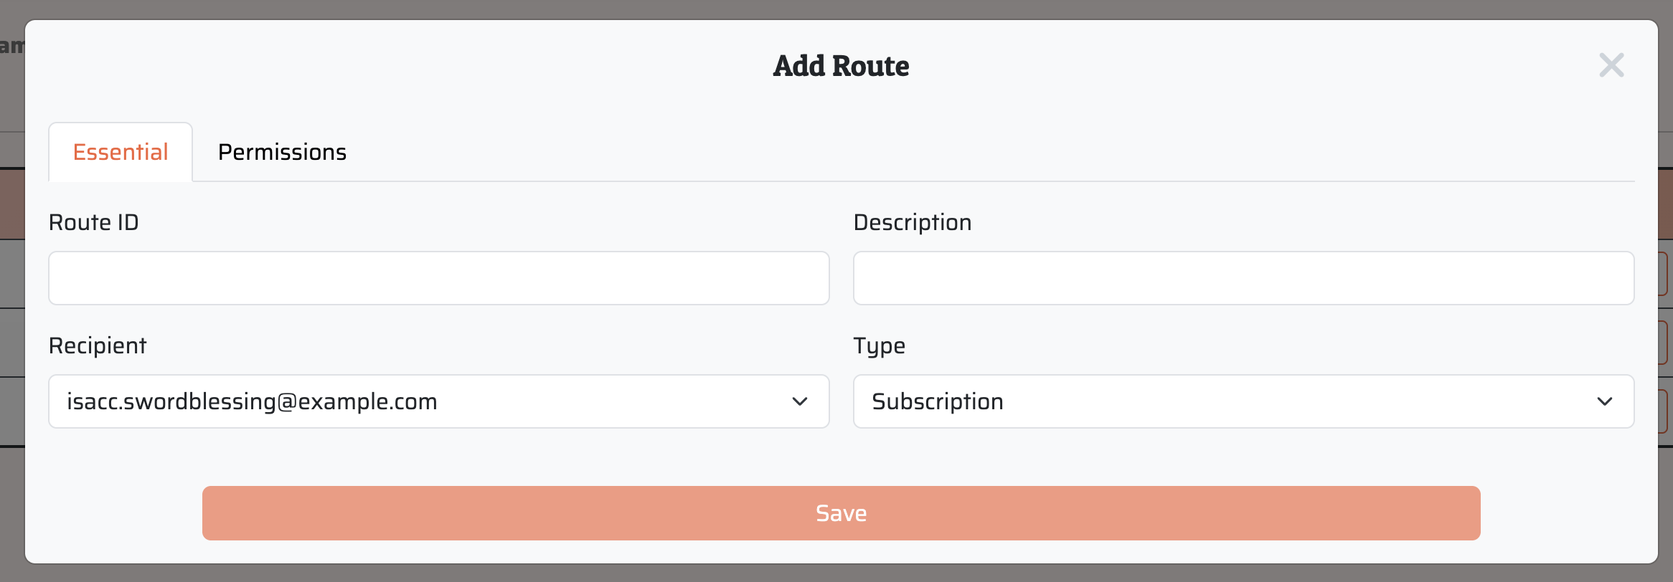
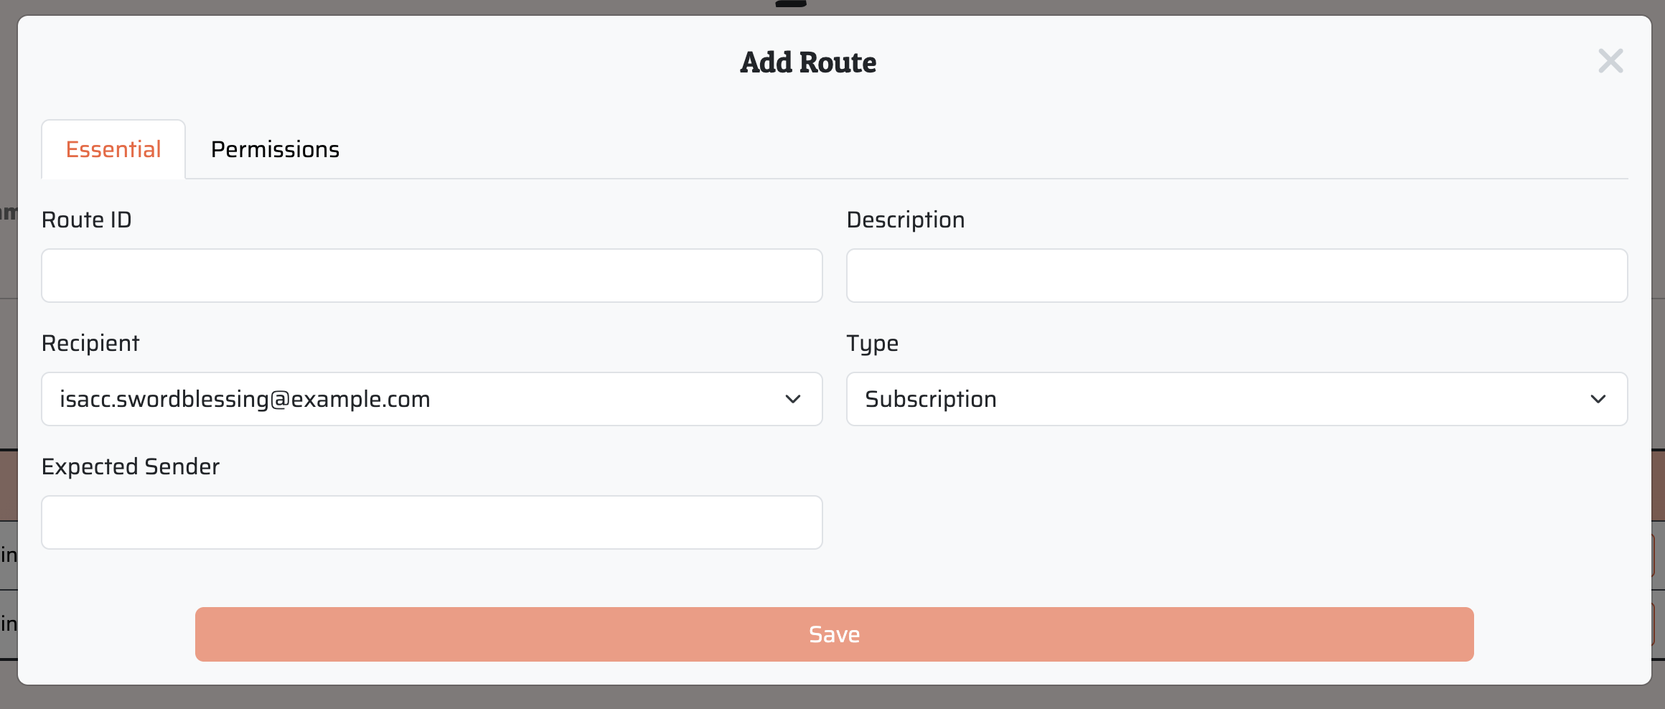
Update docs for routes, encryption and welcome page
- Manage Routes: add Expected Sender, describe grouped permissions,
  update route listener constraints and add a Delete Routes section
- Encryption: state that only the public key is stored, redraw the
  encryption flow diagram, and correct where decryption happens
- Welcome: rewrite in plain language with Duotail's differentiators
- Refresh channel, contact and route screenshots

diff --git a/docs/tutorials/manage-route.md b/docs/tutorials/manage-route.md
@@ -45,28 +45,62 @@ The **Essential** tab contains the primary fields required to create a route:
 - **Description:** A brief note explaining the purpose of the route.
 - **Recipient:** A dropdown menu to select the destination email address where messages received via this route will be delivered.
 - **Type:** A dropdown menu to select the route logic—either `Subscription` or `One Shot`.
+- **Expected Sender (Optional):** A friendly name (up to 20 characters) for the sender you expect to hear from first, such as `Netflix`. This field appears only for **Subscription** routes. When the first email arrives on a route with no permissions, the system automatically creates domain permissions for that sender and uses this value as their name. If you leave it empty, the sender's root domain (e.g., `example.com`) is used as the name instead. The field is disabled once the route has any permissions; in that case, set the Expected Sender through a [Route Listener](#adding-a-route-listener).
 
 ### Route Permissions
 ![Add Route Permissions](/img/tutorials/manage-route/add-route-permissions.png)
-The **Permissions** tab allows you to configure specific access rules for the route. You can manage two types of permissions: `Domain Permissions` and `Email Permissions`.
+The **Permissions** tab lets you set access rules for the route. Each rule is either a `Domain` permission (e.g., `example.com`) or an `Email` permission (a full email address). Rules are shown in **permission groups**, one group per sender name, so you can manage all the domains and addresses of one sender together.
+
+:::info Changes Apply on Save
+Changes you make on the Permissions tab, including adding, toggling, editing, renaming and deleting, take effect only after you click **Save**. If you close the window without saving, they are discarded.
+:::
 
 #### Add a Permission
-To add a new rule, enter the following details and click the **`+`** button:
-- **Name (Optional):** A label to help you identify the permission.
+To add a new rule, fill in the fields at the bottom of the tab and click the **`+`** button:
+- **Name (Optional):** The sender name the permission belongs to (up to 20 characters). It decides which group the permission joins. If left empty, the value itself is used as the group name.
 - **Value:** The specific domain (e.g., example.com) or the full email address you wish to manage.
 - **Type:** A dropdown menu to specify whether the value is a `Domain` or an `Email`.
 
-#### Manage Permissions 
-A permission is successfully added once it appears as a "pill" on the tab. You can control the behavior of each permission by toggling its status:  
-- **Allowed (Green Pill):** Emails from the specified domain or address are permitted to pass through the route.  
-- **Rejected (Gray Pill):** Emails from the specified domain or address will be automatically blocked. 
+A newly added permission is always **Enabled**.
 
-You can switch between `Allowed` and `Rejected` status simply by clicking on the permission pill.
+#### Permission Groups
+Permissions are grouped by their **name**. Every domain and email that shares exactly the same name appears in one group. Group names are **case sensitive**: `Local News` and `local news` are two separate groups.
 
-To understand how our system determines whether an email is permitted when multiple overlapping permissions exist, please refer to our [Route Guide](/concepts/route) for a detailed explanation of the decision hierarchy
+Each group is shown in one of two ways:
+- **Collapsed:** A colored pill showing the group name and the number of permissions it contains. Click the pill to expand it.
+- **Expanded:** A card with the group name in the header and one row per domain or email. Click the group name in the header to collapse it again.
 
-#### Remove a Permission
-To permanently delete a permission from the route, click the **`x`** icon located at the right end of the permission pill.
+The color of a collapsed pill, and of the toggle in an expanded group's header, shows the overall status of the group:
+- **Green:** All permissions in the group are enabled.
+- **Amber:** Some permissions are enabled and some are disabled.
+- **Gray:** All permissions in the group are disabled.
+
+#### Manage Permissions
+Each permission has one of two statuses:
+- **Enabled (Green Toggle):** Emails from the specified domain or address are allowed through the route.
+- **Disabled (Gray Toggle):** Emails from the specified domain or address are blocked.
+
+In an expanded group, you can manage the **whole group** with the buttons in its header:
+- **Toggle:** Enables every permission in the group. If all of them are already enabled, it disables them all instead.
+- **Edit (pencil):** Renames the group. All permissions in the group take the new name.
+- **Delete (trash can):** Removes every permission in the group.
+
+You can also manage **individual permissions** with the buttons on each row:
+- **Toggle:** Switches that permission between `Enabled` and `Disabled`.
+- **Edit (pencil):** Changes the domain or email value. The new value must be a valid domain or email address of the same type.
+- **Delete (`x`):** Removes that permission from the route.
+
+To understand how our system decides whether an email is permitted when several permissions overlap, see our [Route Guide](/concepts/route) for a detailed explanation of the decision hierarchy.
+
+#### Group or Regroup Permissions
+Because groups are formed by name, you organize permissions by changing their names:
+- **Merge groups:** Rename a group to the exact name of another group (including letter case). All its permissions move into that group.
+- **Move a single permission:** Add the same value and type again using the fields at the bottom of the tab, with the name of the target group. The existing permission is replaced, so it moves into that group. It is also set back to **Enabled**.
+- **Split a group:** Move individual permissions out to a new name as described above.
+
+:::tip Name Your Senders
+Auto-created permissions are named after the [Expected Sender](#route-essentails) if you set one; otherwise they use the sender's root domain. Rename those groups to a friendly name, such as `Safari News`, to keep all of a sender's domains and addresses together.
+:::
 
 :::tip Empty Permission Subscription
 We recommend leaving permissions undefined when creating a new **Subscription** route. If no explicit permissions are set, the system will automatically permit the first incoming email it receives. This is particularly useful for handling automated confirmation or verification emails generated by third-party services.
@@ -86,6 +120,25 @@ Every email address in the `One Shot` stamped list is displayed as a **red pill*
 ![One Shot Stamped List](/img/tutorials/manage-route/stamped-list.png)
 The Blocked tab displays up to **30 email address pills** at a time. If you cannot find a specific address, use the search bar at the top to filter the list by typing any part of the email address.
 ![One Shot Stamped List Search](/img/tutorials/manage-route/stamped-search.png)
+
+## Delete Routes
+You can delete a route by clicking the `Delete` button located in the `Actions` column of the `Route Table`. A `Delete Route` confirmation window will appear, showing the full email address of the route.
+![Delete Route](/img/tutorials/manage-route/delete-route.png)
+Click `Delete` to confirm, or `Cancel` to keep the route. Once a route is deleted:
+- **New emails** sent to the route's address will no longer be delivered.
+- **Replies** to past emails received through this route will no longer reach the original sender. These replies are dropped silently: you will not receive a bounce or any other notice that your reply was not delivered.
+- **Email history** for the route is kept and remains viewable.
+- **Route Listener:** If the channel's active [Route Listener](#-route-listener) is set on this route, it is turned off automatically. A listener on a different route is not affected.
+
+### Reusing a Deleted Route ID
+Once a route is deleted, its Route ID becomes available again, and you can create a new route with the same ID in the same channel. Because the Route ID is part of the route's email address, keep the following in mind:
+- The new route starts fresh. None of the old route's settings, such as its description, recipient or permissions, are restored.
+- The new route uses the **same email address** as the deleted one, so senders who still have that address can reach you again, subject to the new route's permissions.
+- Replies and action links in emails forwarded by the old route will apply to the new route.
+
+:::warning
+Deleting a route takes effect immediately. If you only want to stop emails temporarily, consider changing the route's status to `Disabled` from the [Update Routes](#update-routes) window instead.
+:::
 
 ## 👂 Route Listener 
 A Route Listener is a temporary, high-intelligence state you can apply to your channel. It is designed to simplify the process of aggregating multiple subscriptions or new senders into a single route without manual whitelisting.
@@ -110,16 +163,17 @@ A Route Listener remains active until one of the following occurs:
 3. **Manual Cancellation:** The user stops the listener via the dashboard.
 
 #### Key Constraints
-- **Subscription Only:** Listeners can only be added to existing, Enabled routes of the "Subscription" type.
+- **Subscription Routes with Permissions Only:** Listeners can only be added to existing, Enabled routes of the "Subscription" type that already have at least one permission. A subscription route with no permissions doesn't need a listener: it automatically permits the first incoming email, using the route's own [Expected Sender](#route-essentails) to name the new permissions.
 - **Single Instance:** To prevent gateway conflicts, each channel can only have one active Route Listener at a time. Activating a new listener will automatically cancel any previous one on that channel.
-- **Visibility:** The **"Add Route Listener"** button only appears if your channel has at least one enabled subscription route.
+- **Visibility:** The **"Add Route Listener"** button only appears if your channel has at least one enabled subscription route with at least one permission.
 
 ### 🛠 Instructions
 #### Adding a Route Listener
 1. Click the **"Add Route Listener"** button above your route table.
-2. Configure the listener through the **"Add Route Listener"** form which contains the following two options and Save
+2. Configure the listener through the **"Add Route Listener"** form which contains the following options and Save
     * **Route ID:** Select the specific route you wish to open for auto-permissioning.
     * **Active Duration:** Select a lifespan from the dropdown: `30 minutes`, `1 hour`, or `8 hours`.
+    * **Expected Sender (Optional):** A friendly name (up to 20 characters) for the sender you expect to hear from, such as `Netflix`. When the next email arrives, the domain permissions created for its sender use this value as their name, so they appear under that name in the route's [permission groups](#permission-groups). If you leave it empty, the sender's root domain (e.g., `example.com`) is used as the name instead. To add the new sender to an existing group, enter that group's name exactly as it appears; names are case sensitive.
 
 :::tip Security Recommendation
 Always choose the **shortest** timeframe in which you expect the next email to arrive. This minimizes the "open window" for your route.

diff --git a/docs/welcome.md b/docs/welcome.md
@@ -3,40 +3,60 @@ sidebar_position: 1
 sidebar_label: Welcome
 ---
 
-# Welcome to our Duotail Documentation 
+# Welcome to Duotail
 
-**Master the world’s first Segmented Email Gateway in less than 5 minutes.**
+**Keep your real email address private, and decide who gets to reach you.**
 
-## Purpose
+Every time you sign up for a website, a newsletter or an online store, you hand over your email address. Over time, that address ends up on mailing lists you never agreed to, and junk mail piles up.
 
-**Our mission is simple: to provide every user with total control over their inbox and how they receive email.**
+Duotail gives you extra email addresses to hand out instead of your real one. Only the senders you allow get through to your inbox. Everyone else is stopped before they reach you. On a paid plan, those emails are kept on our website instead, so you can review them later.
 
-We're convinced that every person deserves a curated inbox. To make that a reality, we provide our full suite of incoming email controls to all our customers, free of charge.
+## How It Works
 
-## Key Concepts
+1. **Get your own Duotail inbox.** When you sign up, you get an inbox with an address such as `a_happy.rhino@duotail.com`.
+2. **Create an address for each purpose.** Make one for shopping (`a_happy.rhino_shopping@duotail.com`), one for newsletters (`a_happy.rhino_news@duotail.com`), and so on. Give these out instead of your real address.
+3. **Keep reading email where you already do.** Emails you allow are forwarded to your own email address, such as your Gmail or Outlook, so you don't need to check a new mailbox every day. If you want to look back, the [History](/tutorials/manage-history) page on our website lists your emails from the past 30 days, and you can open or download the ones we have kept for you.
 
-To get the most out of our services, it is important to understand these three core concepts:
-- **Channel**: A channel acts as an "umbrella" for all email addresses starting with its name. For example, owning the channel `a_happy.rhino` gives you control over `a_happy.rhino@duotail.com`, `a_happy.rhino_sports@duotail.com`, and `a_happy.rhino_food@duotail.com`. More details can be found in the [channel guide](/concepts/channel).
+## What Makes Duotail Different
 
-- **Route**: A Route defines the rules for incoming emails. The text following the last underscore in an address is the Route ID. For example, in `a_happy.rhino_food@duotail.com`, `food` is the route. If a route rule allows `deliciousgrass.com`, any emails from that domain will be delivered to your inbox. More details can be found in the [route guide](/concepts/route).
+- **Addresses that make sense.** No random strings to copy and forget. You name each address after what it is for, like `a_happy.rhino_shopping@duotail.com`, so every email tells you at a glance who sent it and why.
+- **A "don't email me, I'll email you" main address.** Your inbox's main address only accepts your contacts, the people you have chosen to trust. Anyone else is turned away, so it never fills up with strangers.
+- **Scam-resistant by default.** Strangers can't reach you unless you let them, which shuts out most scam and phishing emails before they arrive. For the emails that do get through, the summary points out warning signs such as tracking pixels, insecure links, or a "business" writing from a free Gmail or Outlook address.
+- **Two kinds of addresses for two kinds of senders.** A **Permission Enforced** address only accepts senders you have allowed, which is perfect for shopping and newsletters. A **Cold Reach Allowed** address lets each new person introduce themselves once, then waits for you to decide, which is ideal for a business card.
+- **Listen when you are expecting mail.** About to sign up somewhere new? Open an address for a short time, and the next sender is let in and remembered. Then it closes again by itself.
+- **One click from every email.** Each email we forward comes with a short summary and action links: allow the next email, allow this sender for good, or stop hearing from them. No settings page needed.
+- **Mute and unmute any time.** Turn any sender off when they get noisy and back on when you want them again. Your inbox only gets the mail you actually want, so it stays lean instead of growing out of control.
+- **Your stored emails are locked.** Emails we keep for you are encrypted with three secret words that only you know. See [Data Security](/privacy/data-encryption-protocol) to learn more.
 
-- **Contact**: A Contact is a trusted sender assigned to a channel. Emails originating from a Contact bypass Route configurations to reach any address under that channel. For example, if `angry.gazelle@example.com` is a Contact for a_happy.rhino, their emails will always be delivered to `a_happy.rhino@duotail.com`, `_sports`, and `_food` regardless of specific route rules. More details can be found in the [contact guide](/concepts/contact).
+## Get Started
 
-## What You'll Need
+Signing up is free. A free account lets you create addresses, choose who can reach you, and reply to the emails you receive. When you register, your inbox is named after your username. For example, the username `happy.rhino` gets the inbox `a_happy.rhino`.
 
-As our service is in its early stages, our domain is still being recognized by major email providers. To ensure you receive our communications, please whitelist `duotail.com` in your email settings. This will prevent our messages from being incorrectly flagged as junk.
+:::warning Keep our emails out of your junk folder
+Duotail is a new service, so some email providers may not recognize us yet. Before you register, add `duotail.com` to your safe senders list so you receive your confirmation email and forwarded mail: [Gmail](/tutorials/white-list-domain#whitelist-in-gmail) · [Outlook](/tutorials/white-list-domain#whitelist-in-outlook)
+:::
 
-[Gmail Guide](/tutorials/white-list-domain#whitelist-in-gmail) &nbsp;&nbsp;&nbsp;&nbsp; [Outlook Guide](/tutorials/white-list-domain#whitelist-in-outlook)
+1. [Register a free account](/tutorials/register)
+2. Follow the [Quick Start](/tutorials/quick-start) guide to create your first address and receive your first email.
 
-## Getting Started
+:::tip You don't have to set everything up in advance
+When you create an address for shopping or newsletters, choose **Permission Enforced**. A new address of this kind lets the **first** sender through automatically and remembers it. Just sign up on the website, and its emails will keep arriving from then on.
+:::
 
-To try our service, you can sign up for a free account. Upon successful registration, you will own the channel `a_<your_username>`. For example, a user named `happy.rhino` would own the channel `a_happy.rhino`, which means all the emails starting with `a_happy.rhino` at `duotail.com`.
+## Words You Will See
 
-[How to register a free account](/tutorials/register)
+You only need to know a few terms. The website and this documentation sometimes use different names for the same thing, so both are listed below.
 
-## Get Support
+| Name on the website | Also called | What it means |
+|---|---|---|
+| **Inbox** | [Channel](/concepts/channel) | Your group of Duotail addresses. They all start with the same name, such as `a_happy.rhino`. |
+| **Email address** | [Route](/concepts/route) | One address inside your inbox, made for one purpose, such as `a_happy.rhino_shopping@duotail.com`. Each one keeps its own list of allowed senders. |
+| **Contact** | [Contact](/concepts/contact) | A person you trust. Their emails reach every address in your inbox, without any extra setup. |
+| **Permission** | | A sender you have allowed (or blocked) on an address. It can be a whole website, such as `example.com`, or a single email address. |
 
-We are happy to assist you with any issues or answer any questions you may have. You can reach us through these two main channels:
+## Need Help?
 
-- Technical support: `support@duotail.com`
-- Other concerns: `contact@duotail.com` 
+We are happy to help with any problem or question.
+
+- Help using Duotail: `support@duotail.com`
+- Anything else: `contact@duotail.com`

diff --git a/docs/privacy/data-security.md b/docs/privacy/data-security.md
@@ -7,7 +7,7 @@ sidebar_position: 1
 
 # The Duotail Encryption Protocol
 
-At the heart of our **Zero-Knowledge** architecture is a non-custodial encryption flow. We have engineered our system so that we cannot read your messages, even if we were compelled to. 
+At the heart of our **Zero-Knowledge** architecture is a non-custodial encryption flow. We never store the key that unlocks your emails, so the messages we keep on file cannot be opened without the three words that only you know.
 
 Below is the technical breakdown of how your data is protected from the moment it enters our gateway.
 
@@ -24,20 +24,20 @@ Below is the technical breakdown of how your data is protected from the moment i
 Our protocol is divided into three distinct phases: Identity Generation, Message Protection, and Secure Retrieval.
 
 ### Phase 1: Key Generation & Registration
-We use a derived-key architecture to ensure we never store your master secret.
+We use a public/private key architecture to ensure we never store the key that unlocks your emails.
 1. **User Entropy:** The customer provides a unique combination of **three words** associated with a **Key Name**.
-2. **Key Derivation:** Our system applies the **Argon2id** hashing algorithm and **X25519** elliptic curve cryptography to generate a high-entropy encryption key. 
-3. **Storage:** Only the **Key Name** and the derived **Encryption Key** are stored in our secure database. Your original three words are never persisted.
+2. **Key Derivation:** Our system applies the **Argon2id** hashing algorithm to your three words to derive a **private key**, then uses **X25519** elliptic curve cryptography to compute its matching **public key**. The private key is discarded as soon as the public key is computed.
+3. **Storage:** Only the **Key Name** and the **public key** are stored in our secure database. A public key can only lock data; it cannot unlock it. Neither your three words nor your private key is ever persisted.
 
 ### Phase 2: Message Protection (The Airlock)
 When an email enters our gateway, it is neutralized and secured before it touches our disk.  
-4. **Encryption:** Before the system saves any email content, it is encrypted using the **AES-256** algorithm in GCM mode, utilizing the key generated in Phase 1.  
+4. **Encryption:** Before the system saves any email content, it creates a one-time key pair for that email and combines it with your **public key** (X25519 key agreement) to produce a unique **AES-256** key. The content is encrypted with that key in GCM mode, and the one-time private key is discarded. Only your private key, rebuilt from your three words, can recreate the AES key and decrypt the file.  
 5. **Association:** Once the encrypted `.eml` file is stored in our file system, we record which **Key Name** was used to secure it. This creates a link without exposing the content.  
 
 ### Phase 3: Secure Retrieval
 Retrieval is a "Just-in-Time" process. The decryption key exists only in memory for the duration of your request.  
 6. **Challenge:** When you request a download, our system retrieves the **Key Name** and prompts you for the associated **three words**.  
-7. **Re-Generation:** Using your provided words, the system re-runs the **Argon2id** and **X25519** process to reconstruct the **Decryption Key**.  
+7. **Re-Generation:** Using your provided words, the system re-runs the **Argon2id** process to reconstruct your **private key** (the **Decryption Key**).  
 8. **Decryption & Delivery:** The system loads the encrypted file, performs the decryption in a transient memory state, and streams the original file to you. 
 
 ---
@@ -55,9 +55,9 @@ Retrieval is a "Just-in-Time" process. The decryption key exists only in memory 
 Because Duotail is a zero-knowledge system, we do not have a "backdoor" to your data. If you lose your three words, any messages already encrypted with that specific key become **permanently inaccessible**. We cannot reset the key for existing files because we never held the secret to begin with.
 
 * **Can I change my encryption settings?**
-Yes. You maintain full control over your security configuration via your **Account Page**. You can update your encryption key at any time by providing a a new **Key Name** and a new set of **Three Words**. 
+Yes. You maintain full control over your security configuration via your **Account Page**. You can update your encryption key at any time by providing a new **Key Name** and a new set of **Three Words**. 
     - *Future Emails:* All incoming emails received after the update will be secured using your new credentials.
     - *Legacy Emails:* Messages previously encrypted will still require the original words used at the time of their arrival.
 
 * **What algorithms do you use?**  
-We rely on industry-standard primitives: **AES-256** for data at rest, and **Argon2id** with **X25519** for key derivation.
+We rely on industry-standard primitives: **AES-256** in GCM mode for data at rest, **Argon2id** for key derivation, and **X25519** for key agreement.

diff --git a/docs/tutorials/manage-channel.md b/docs/tutorials/manage-channel.md
@@ -9,12 +9,20 @@ sidebar_position: 3
 :::
 
 ## Channel Page
-Your Channel Page serves as your homepage and is the first screen you see after signing in. It displays a table of all the channels you own. Each row in the table provides the following details:
-![Channel Ready](/img/tutorials/manage_channel/channel_ready_manage.png)
-- **Channel:** This column displays the channel type icon followed by the channel name. This name also serves as the "local part" of your email address (the text appearing before the @ symbol).  
-- **Email:** The destination email address where all messages passing through this channel are received.  
-- **Status:** The current operational state of your channel.  
+Your homepage is the first screen you see after signing in. Your channels are listed in its **Inboxes** table.
+
+:::note Channel and Inbox
+An inbox and a channel are the same thing. The web page calls them inboxes; this guide calls them channels.
+:::
+
+Each row in the table provides the following details:
+![Inboxes table listing an alias channel and an identity channel](/img/concepts/channel/channel_entrance.png)
+- **Main Email:** The channel type icon followed by the [channel email](/concepts/channel#channel-email). The highlighted part is the channel name, which is also the "local part" of the address (the text before the @ symbol).  
+- **Recipient:** The destination email address where all messages passing through this channel are received.  
+- **Status:** The current operational state of your channel: `Pending Activation` or `Ready`.  
 - **Actions:** Tools and options available to manage or modify your channel settings.  
+
+Above the table, a banner reminds you that only your contacts can send email to a channel's main email address, with a `Create a contact` link. If any of your channels still needs to be activated or initialized, a warning naming those channels is shown in its place instead.
 
 :::note
 Your emails will only be processed once the channel has been initialized. When a channel is active and in use, you will see a `Manage` button located under the `Actions` column.
@@ -29,6 +37,7 @@ Available actions vary depending on the current status of your channel. The poss
 ![Channel to Initialize](/img/concepts/channel/alias_ready.png)
 - **Manage:** This allows you to access the main management page for a specific channel, where you can configure routes and manage your contacts.  
 ![Channel in Use](/img/concepts/channel/alias_ready_2.png)
+- **Copy Email:** Always available. Copies the channel's main email address to your clipboard.
 
 ## Configure an Individual Channel
 
@@ -39,7 +48,7 @@ A sample channel configuration page for channel `a_happy.rhino` after initializa
 
 Each **Individual Channel** Page is divided into two sections: **[Channel Routing Configuration](/tutorials/manage-route)** and **[Channel Contacts Configuration](/tutorials/manage-contact)**. To help you navigate between these sections quickly, two additional items — `Channel` and `Contacts` — will appear in the top menu bar whenever you are on this page.
 
-Clicking the `HOME` menu at the top bar will return you to your main channel page.
+Clicking the `HOME` menu at the top bar will return you to your homepage and its **Inboxes** table.
 
 ## Related Topics
 

diff --git a/docs/concepts/channel.md b/docs/concepts/channel.md
@@ -9,9 +9,15 @@ sidebar_position: 1
 
 A **Channel** acts as an "umbrella" for all email addresses starting with its name. For example, owning the channel `a_happy.rhino` gives you ownership over any emails starting with `a_happy.rhino`, for example `a_happy.rhino@duotail.com`, `a_happy.rhino_sports@duotail.com`, and `a_happy.rhino_food@duotail.com`.
 
+:::info Channel and Inbox
+On our web page, channels are listed under **Inboxes**. An inbox and a channel are the same thing; "inbox" is simply the name the web page uses.
+:::
+
+![Inboxes page listing an alias channel and an identity channel](/img/concepts/channel/channel_entrance.png)
+
 ## Channel Email
 
-A channel email is an address where the local part (the text before the @ symbol) matches the specific channel name. For example, the channel `a_happy.rhino` uses the email address `a_happy.rhino@duotail.com` as its channel email.
+A channel email is an address where the local part (the text before the @ symbol) matches the specific channel name. For example, the channel `a_happy.rhino` uses the email address `a_happy.rhino@duotail.com` as its channel email. On the **Inboxes** page, the channel email is shown in the **Main Email** column.
 
 ### Security and Contact Managemen
 

diff --git a/docs/tutorials/manage-history.md b/docs/tutorials/manage-history.md
@@ -13,7 +13,7 @@ The **History Page** is the centralized hub where all emails processed through y
 All email records from the past 30 days are directly accessible here.
 
 :::important Privacy & Security Note
-**Your data is cryptographically isolated.** We do not - and physically cannot - view the content of your encrypted emails. Because your decryption keys are generated only in your browser's transient memory using your secret words, it is mathematically impossible for anyone, including Duotail administrators, to access your stored messages.
+**Your data is cryptographically isolated.** Your stored emails are encrypted with a key that only your secret words can rebuild, and we never store those words or the key itself. When you download an email, the key is rebuilt from the words you enter, used only in our system's transient memory for that request, and then discarded. Without your words, your stored messages cannot be opened by anyone, including Duotail administrators. See our [Encryption Protocol](/privacy/data-encryption-protocol) for details.
 :::
 
 ## Filters

diff --git a/docs/concepts/contact.md b/docs/concepts/contact.md
@@ -51,8 +51,7 @@ If you click **Reply All** in your mail app, your reply comes back through Duota
 ## Alias Notice
 When you write to a contact through their `2_` address and the contact belongs to an [alias channel](/concepts/channel#alias-channel), Duotail adds a short notice at the top of the email:
 
-> **Sent from an alias address.** The sender name was chosen by the alias owner and may not match their real identity.
-> *This notice is generated by duotail.com*
+![Alias notice: Sent from an alias address. The sender name was chosen by the alias owner and may not match their real identity.](/img/concepts/contact/alias_sener_warning.png)
 
 Anyone can choose the sender name of an alias channel, so the notice tells your contact not to rely on it. The notice is permanent: it stays in the conversation when people reply, and it is hidden when the email is printed. Emails from an [identity channel](/concepts/channel#identity-channel) don't get the notice.
 

diff --git a/docs/changelog/v0.3.0-release-note.md b/docs/changelog/v0.3.0-release-note.md
@@ -13,7 +13,7 @@ This milestone release transforms Duotail from a privacy gateway into a full-sca
 
 ### Zero-Knowledge Email Encryption
 Your privacy is now backed by industry-standard cryptography. Using **AES-256** and **Argon2id**, your incoming emails are encrypted the moment they hit our gateway. 
-* **The "Three Words" Secret:** We don't store your keys. Your messages are decrypted in your browser’s transient memory using your unique secret words.
+* **The "Three Words" Secret:** We never store your decryption key or your secret words. When you download a message, your key is rebuilt from your three words and used only in transient memory for that request.
 * **Benefit:** Even if our servers were compromised, your data remains indistinguishable from random noise.
 
 ### The Route Listener (Smart Automation)
